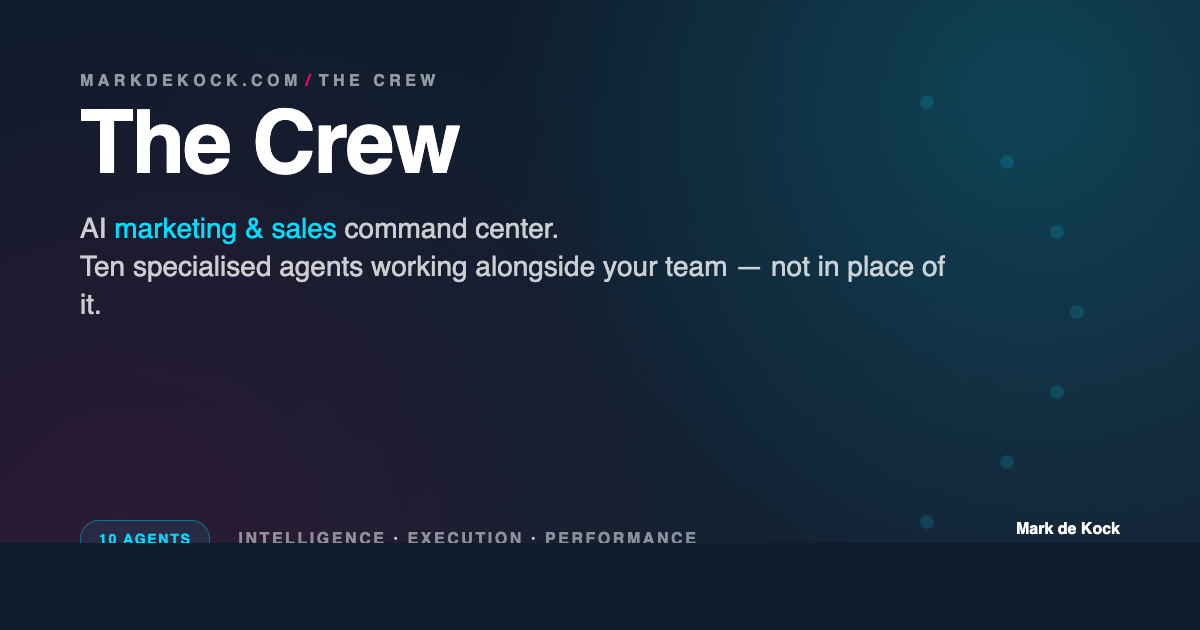
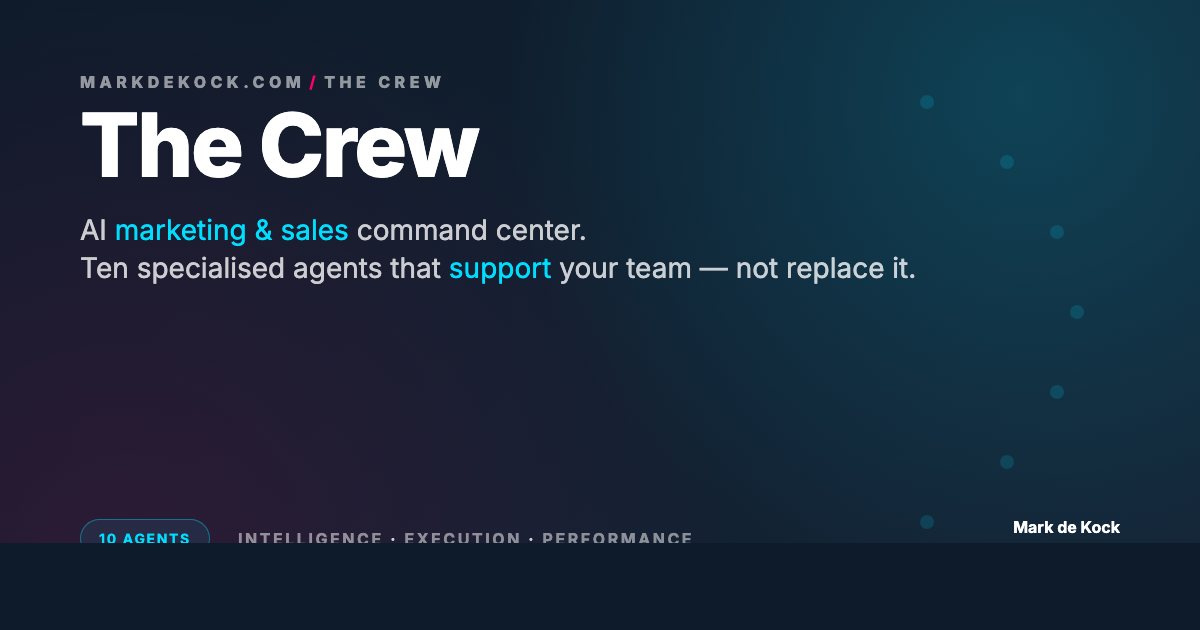
The Crew: tagline tweak — 'supports your team — not replaces it'
Replaces the older 'works alongside / not in place of' phrasing across:

- NL: "AI die je team ondersteunt — niet vervangt"
- EN: "AI that supports your team — not replaces it"

Updated locations:
- /thecrew/ picker, /thecrew/en/ and /thecrew/nl/ index pages (subtitle,
  meta description, og:description, twitter:description, JSON-LD Service)
- /werk spotlight (NL + EN translation objects)
- pitch-standalone EN + NL hero copy
- NL concept-companion intro
- OG image regenerated with the new tagline; "support" highlighted in
  paradise cyan to mirror "marketing & sales"

diff --git a/public/thecrew/nl/index.html b/public/thecrew/nl/index.html
@@ -7,7 +7,7 @@
 <link rel="icon" type="image/png" sizes="32x32" href="/thecrew/favicon-32.png">
 <link rel="apple-touch-icon" href="/thecrew/apple-touch-icon.png">
 <title>The Crew — AI Marketing &amp; Sales Command Center | markdekock.com</title>
-<meta name="description" content="Tien gespecialiseerde AI-agents die meewerken met je team — niet ervoor in de plaats. Van marktonderzoek en strategie tot creatie, media en rapportage. Onderdeel van mijn werk als AI-mentor en strateeg bij markdekock.com.">
+<meta name="description" content="Tien gespecialiseerde AI-agents die je team ondersteunen — niet vervangen. Van marktonderzoek en strategie tot creatie, media en rapportage. Onderdeel van mijn werk als AI-mentor en strateeg bij markdekock.com.">
 <meta name="robots" content="index,follow">
 <link rel="canonical" href="https://markdekock.com/thecrew/nl/">
 <link rel="alternate" hreflang="en" href="https://markdekock.com/thecrew/en/">
@@ -16,7 +16,7 @@
 <meta property="og:type" content="website">
 <meta property="og:site_name" content="markdekock.com">
 <meta property="og:title" content="The Crew — AI Marketing &amp; Sales Command Center">
-<meta property="og:description" content="Tien gespecialiseerde AI-agents verdeeld over drie fases — Intelligence, Execution, Performance. AI die meewerkt met je team, niet ervoor in de plaats.">
+<meta property="og:description" content="Tien gespecialiseerde AI-agents verdeeld over drie fases — Intelligence, Execution, Performance. AI die je team ondersteunt — niet vervangt.">
 <meta property="og:url" content="https://markdekock.com/thecrew/nl/">
 <meta property="og:image" content="https://markdekock.com/thecrew/og-image.png">
 <meta property="og:image:width" content="1200">
@@ -26,12 +26,12 @@
 <meta property="og:locale:alternate" content="en_US">
 <meta name="twitter:card" content="summary_large_image">
 <meta name="twitter:title" content="The Crew — AI Marketing &amp; Sales Command Center">
-<meta name="twitter:description" content="Tien AI-agents. Drie fases. AI die meewerkt met je team. markdekock.com / the crew.">
+<meta name="twitter:description" content="Tien AI-agents. Drie fases. AI die je team ondersteunt — niet vervangt. markdekock.com / the crew.">
 <meta name="twitter:image" content="https://markdekock.com/thecrew/og-image.png">
 <script type="application/ld+json">
 {"@context":"https://schema.org","@graph":[
   {"@type":"WebPage","@id":"https://markdekock.com/thecrew/nl/#webpage","url":"https://markdekock.com/thecrew/nl/","name":"The Crew — AI Marketing & Sales Command Center","inLanguage":"nl","isPartOf":{"@id":"https://markdekock.com/thecrew/#website"},"description":"Tien gespecialiseerde AI-agents in drie fases — Intelligence, Execution, Performance — die marketing en sales van begin tot eind ondersteunen als fundament onder je team."},
-  {"@type":"Service","@id":"https://markdekock.com/thecrew/nl/#service","name":"The Crew — AI Marketing & Sales Command Center","serviceType":"AI-agent marketing- en sales-operatingmodel","url":"https://markdekock.com/thecrew/nl/","description":"Tien gespecialiseerde AI-agents — Lookout, Spyglass, Navigator, Cartographer, Scribe, Quartermaster, Chronometer, Helmsman, Ship's Log, Captain's Table — die meewerken met je team in plaats van het te vervangen.","provider":{"@type":"Person","name":"Mark de Kock","url":"https://markdekock.com/"},"areaServed":{"@type":"Place","name":"Europa"},"availableLanguage":["nl","en"]},
+  {"@type":"Service","@id":"https://markdekock.com/thecrew/nl/#service","name":"The Crew — AI Marketing & Sales Command Center","serviceType":"AI-agent marketing- en sales-operatingmodel","url":"https://markdekock.com/thecrew/nl/","description":"Tien gespecialiseerde AI-agents — Lookout, Spyglass, Navigator, Cartographer, Scribe, Quartermaster, Chronometer, Helmsman, Ship's Log, Captain's Table — die je team ondersteunen — niet vervangen.","provider":{"@type":"Person","name":"Mark de Kock","url":"https://markdekock.com/"},"areaServed":{"@type":"Place","name":"Europa"},"availableLanguage":["nl","en"]},
   {"@type":"BreadcrumbList","itemListElement":[{"@type":"ListItem","position":1,"name":"markdekock.com","item":"https://markdekock.com/"},{"@type":"ListItem","position":2,"name":"The Crew","item":"https://markdekock.com/thecrew/"},{"@type":"ListItem","position":3,"name":"Nederlands","item":"https://markdekock.com/thecrew/nl/"}]}
 ]}
 </script>
@@ -882,7 +882,7 @@
   <div class="crew-header">
     <div class="crew-label">markdekock.com / the crew</div>
     <h1>The Crew</h1>
-    <div class="subtitle">AI die meewerkt met je team — niet ervoor in de plaats</div>
+    <div class="subtitle">AI die je team ondersteunt — niet vervangt</div>
   </div>
 
   <!-- Problem section -->

diff --git a/public/thecrew/en/index.html b/public/thecrew/en/index.html
@@ -7,7 +7,7 @@
 <link rel="icon" type="image/png" sizes="32x32" href="/thecrew/favicon-32.png">
 <link rel="apple-touch-icon" href="/thecrew/apple-touch-icon.png">
 <title>The Crew — AI Marketing &amp; Sales Command Center | markdekock.com</title>
-<meta name="description" content="Ten specialised AI agents that work alongside your team — not in place of it. From market research and strategy to creative, media and reporting. Part of my work as an AI mentor and strategist at markdekock.com.">
+<meta name="description" content="Ten specialised AI agents that support your team — not replace it. From market research and strategy to creative, media and reporting. Part of my work as an AI mentor and strategist at markdekock.com.">
 <meta name="robots" content="index,follow">
 <link rel="canonical" href="https://markdekock.com/thecrew/en/">
 <link rel="alternate" hreflang="en" href="https://markdekock.com/thecrew/en/">
@@ -16,7 +16,7 @@
 <meta property="og:type" content="website">
 <meta property="og:site_name" content="markdekock.com">
 <meta property="og:title" content="The Crew — AI Marketing &amp; Sales Command Center">
-<meta property="og:description" content="Ten specialised AI agents across three phases — Intelligence, Execution, Performance. AI that works alongside your team, not in place of it.">
+<meta property="og:description" content="Ten specialised AI agents across three phases — Intelligence, Execution, Performance. AI that supports your team — not replaces it.">
 <meta property="og:url" content="https://markdekock.com/thecrew/en/">
 <meta property="og:image" content="https://markdekock.com/thecrew/og-image.png">
 <meta property="og:image:width" content="1200">
@@ -26,12 +26,12 @@
 <meta property="og:locale:alternate" content="nl_NL">
 <meta name="twitter:card" content="summary_large_image">
 <meta name="twitter:title" content="The Crew — AI Marketing &amp; Sales Command Center">
-<meta name="twitter:description" content="Ten AI agents. Three phases. AI that works alongside your team. markdekock.com / the crew.">
+<meta name="twitter:description" content="Ten AI agents. Three phases. AI that supports your team — not replaces it. markdekock.com / the crew.">
 <meta name="twitter:image" content="https://markdekock.com/thecrew/og-image.png">
 <script type="application/ld+json">
 {"@context":"https://schema.org","@graph":[
   {"@type":"WebPage","@id":"https://markdekock.com/thecrew/en/#webpage","url":"https://markdekock.com/thecrew/en/","name":"The Crew — AI Marketing & Sales Command Center","inLanguage":"en","isPartOf":{"@id":"https://markdekock.com/thecrew/#website"},"description":"Ten specialised AI agents across three phases — Intelligence, Execution, Performance — supporting marketing and sales end-to-end as the foundation underneath your team."},
-  {"@type":"Service","@id":"https://markdekock.com/thecrew/en/#service","name":"The Crew — AI Marketing & Sales Command Center","serviceType":"AI-agent marketing and sales operating model","url":"https://markdekock.com/thecrew/en/","description":"Ten specialised AI agents — Lookout, Spyglass, Navigator, Cartographer, Scribe, Quartermaster, Chronometer, Helmsman, Ship's Log, Captain's Table — that work alongside your team instead of replacing it.","provider":{"@type":"Person","name":"Mark de Kock","url":"https://markdekock.com/"},"areaServed":{"@type":"Place","name":"Europe"},"availableLanguage":["nl","en"]},
+  {"@type":"Service","@id":"https://markdekock.com/thecrew/en/#service","name":"The Crew — AI Marketing & Sales Command Center","serviceType":"AI-agent marketing and sales operating model","url":"https://markdekock.com/thecrew/en/","description":"Ten specialised AI agents — Lookout, Spyglass, Navigator, Cartographer, Scribe, Quartermaster, Chronometer, Helmsman, Ship's Log, Captain's Table — that support your team — not replace it.","provider":{"@type":"Person","name":"Mark de Kock","url":"https://markdekock.com/"},"areaServed":{"@type":"Place","name":"Europe"},"availableLanguage":["nl","en"]},
   {"@type":"BreadcrumbList","itemListElement":[{"@type":"ListItem","position":1,"name":"markdekock.com","item":"https://markdekock.com/"},{"@type":"ListItem","position":2,"name":"The Crew","item":"https://markdekock.com/thecrew/"},{"@type":"ListItem","position":3,"name":"English","item":"https://markdekock.com/thecrew/en/"}]}
 ]}
 </script>
@@ -882,7 +882,7 @@
   <div class="crew-header">
     <div class="crew-label">markdekock.com / the crew</div>
     <h1>The Crew</h1>
-    <div class="subtitle">AI that works alongside your team — not in place of it</div>
+    <div class="subtitle">AI that supports your team — not replaces it</div>
   </div>
 
   <!-- Problem section -->

diff --git a/public/thecrew/index.html b/public/thecrew/index.html
@@ -7,7 +7,7 @@
 <link rel="icon" type="image/png" sizes="32x32" href="/thecrew/favicon-32.png">
 <link rel="apple-touch-icon" href="/thecrew/apple-touch-icon.png">
 <title>The Crew — AI Marketing &amp; Sales Command Center | markdekock.com</title>
-<meta name="description" content="Ten specialised AI agents that work alongside your team — not in place of it. From market research and strategy to creative, media and reporting. Available in English and Nederlands.">
+<meta name="description" content="Ten specialised AI agents that support your team — not replace it. From market research and strategy to creative, media and reporting. Available in English and Nederlands.">
 <meta name="robots" content="index,follow">
 <link rel="canonical" href="https://markdekock.com/thecrew/">
 <link rel="alternate" hreflang="en" href="https://markdekock.com/thecrew/en/">
@@ -16,7 +16,7 @@
 <meta property="og:type" content="website">
 <meta property="og:site_name" content="markdekock.com">
 <meta property="og:title" content="The Crew — AI Marketing &amp; Sales Command Center">
-<meta property="og:description" content="Ten specialised AI agents across three phases — Intelligence, Execution, Performance. AI that works alongside your team, not in place of it.">
+<meta property="og:description" content="Ten specialised AI agents across three phases — Intelligence, Execution, Performance. AI that supports your team — not replaces it.">
 <meta property="og:url" content="https://markdekock.com/thecrew/">
 <meta property="og:image" content="https://markdekock.com/thecrew/og-image.png">
 <meta property="og:image:width" content="1200">
@@ -26,7 +26,7 @@
 <meta property="og:locale:alternate" content="nl_NL">
 <meta name="twitter:card" content="summary_large_image">
 <meta name="twitter:title" content="The Crew — AI Marketing &amp; Sales Command Center">
-<meta name="twitter:description" content="Ten AI agents. Three phases. AI that works alongside your team. markdekock.com / the crew.">
+<meta name="twitter:description" content="Ten AI agents. Three phases. AI that supports your team — not replaces it. markdekock.com / the crew.">
 <meta name="twitter:image" content="https://markdekock.com/thecrew/og-image.png">
 <script type="application/ld+json">
 {"@context":"https://schema.org","@graph":[
@@ -163,7 +163,7 @@
 <div class="container">
   <div class="wordmark">markdekock.com / the crew</div>
   <h1>The Crew</h1>
-  <div class="subtitle">AI that works alongside your team &mdash; not in place of it</div>
+  <div class="subtitle">AI that supports your team &mdash; not replaces it</div>
 
   <div class="lang-buttons">
     <a href="/thecrew/en/" class="lang-btn">English</a>

diff --git a/src/app/mentor/werk/page.tsx b/src/app/mentor/werk/page.tsx
@@ -43,7 +43,7 @@ const T = {
     // ── The Crew spotlight ──────────────────────────────────────────────
     crewLabel:   'markdekock.com / the crew',
     crewKicker:  'NIEUW — AI agents voor marketing & sales',
-    crewTitle:   'AI die meewerkt met je team — niet ervoor in de plaats.',
+    crewTitle:   'AI die je team ondersteunt — niet vervangt.',
     crewBody:    'Tien gespecialiseerde AI-agents die je marketing structureren van intelligence tot executie tot performance. Elke agent heeft één domein. Samen vormen ze het fundament onder je team — of onder de samenwerking met je bureau. Waar tribale kennis nu bij iemand vertrekt, legt The Crew die vast en bouwt erop door.',
     crewPhases:  [
       { num: '01', name: 'Intelligence', desc: 'Begrijp je markt voordat er één euro wordt uitgegeven' },
@@ -140,7 +140,7 @@ const T = {
     // ── The Crew spotlight ──────────────────────────────────────────────
     crewLabel:   'markdekock.com / the crew',
     crewKicker:  'NEW — AI agents for marketing & sales',
-    crewTitle:   'AI that works alongside your team — not in place of it.',
+    crewTitle:   'AI that supports your team — not replaces it.',
     crewBody:    'Ten specialised AI agents that structure marketing from intelligence to execution to performance. Each agent owns one domain. Together they form the foundation underneath your team — or underneath your agency relationship. Where tribal knowledge walks out the door when someone leaves, The Crew captures it and builds on it.',
     crewPhases:  [
       { num: '01', name: 'Intelligence', desc: 'Understand your market before spending a single euro' },

diff --git a/public/thecrew/nl/concept-companion.html b/public/thecrew/nl/concept-companion.html
@@ -810,7 +810,7 @@
     <section class="hero">
         <h1>The Crew</h1>
         <p class="subtitle">Jouw AI-team voor marketing & sales</p>
-        <p>Tien specialist agents werken samen in drie fasen. Zij duiken in je data, scannen de markt, ontwerpen experimenten en rapporteren terug. De Crew is jouw volle marketing team dat naast jou werkt — niet in plaats van je team.</p>
+        <p>Tien specialist agents werken samen in drie fasen. Zij duiken in je data, scannen de markt, ontwerpen experimenten en rapporteren terug. De Crew is jouw volle marketing team dat je team ondersteunt — niet vervangt.</p>
         <a href="#start-conversation" class="hero-cta">Laten we beginnen</a>
     </section>
 

diff --git a/public/thecrew/en/pitch-standalone.html b/public/thecrew/en/pitch-standalone.html
@@ -854,7 +854,7 @@
         <h1>The Crew</h1>
         <div class="subtitle">Your AI team for marketing & sales</div>
         <div class="hero-description">
-            <p>AI that works alongside your team, not instead of your team. Not a command center — a foundation that makes your marketers sharper, faster, and more focused.</p>
+            <p>AI that supports your team — not replaces it. Not a command center — a foundation that makes your marketers sharper, faster, and more focused.</p>
         </div>
         <button class="btn btn-primary">Discover how it works</button>
     </section>

diff --git a/public/thecrew/nl/pitch-standalone.html b/public/thecrew/nl/pitch-standalone.html
@@ -854,7 +854,7 @@
         <h1>The Crew</h1>
         <div class="subtitle">Jouw AI-team voor marketing & sales</div>
         <div class="hero-description">
-            <p>AI die naast je team werkt, niet in plaats van je team. Niet een command center — een fundament dat je marketers scherper, sneller en meer gericht maakt.</p>
+            <p>AI die je team ondersteunt — niet vervangt. Niet een command center — een fundament dat je marketers scherper, sneller en meer gericht maakt.</p>
         </div>
         <button class="btn btn-primary">Ontdek hoe het werkt</button>
     </section>
